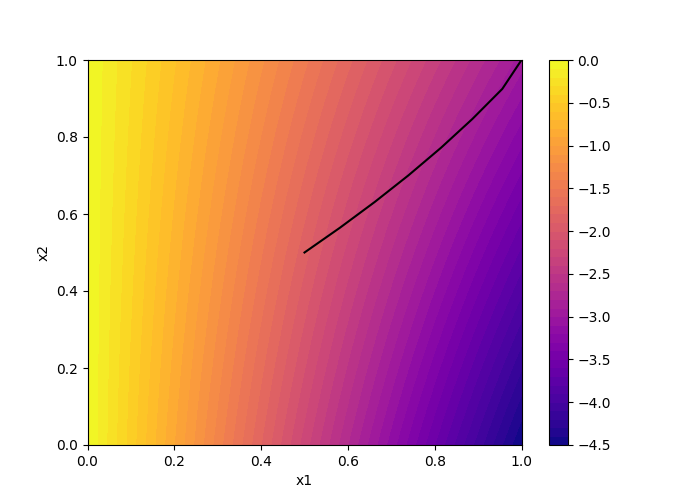
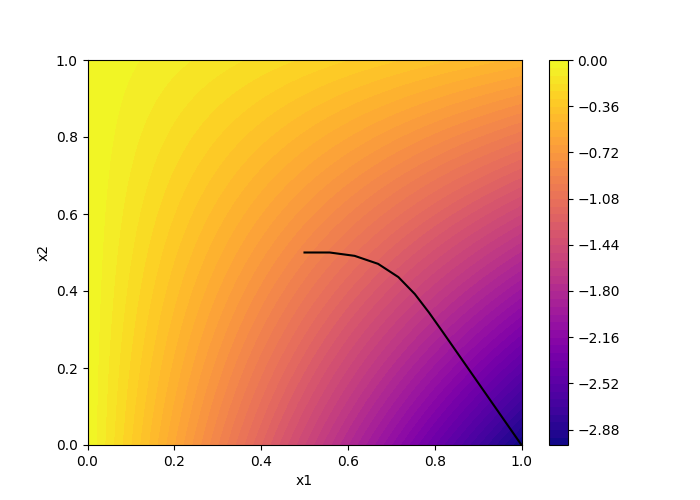
change test problem

diff --git a/visualizations/test_bertrand.py b/visualizations/test_bertrand.py
@@ -4,8 +4,8 @@ import hmip.hopfield as hop
 from visualizations.utils_visuals import plot_evolution_objective_function_2d
 
 
-H = np.array([[2, 0.1], [0, 1]])
-q = np.array([-2.7, -1.8])
+H = np.array([[2, 1], [1, 1]])
+q = np.array([-2, -1])
 k_max = 100
 binary_indicator = np.array([0, 1])
 ub = np.array([1, 1])
